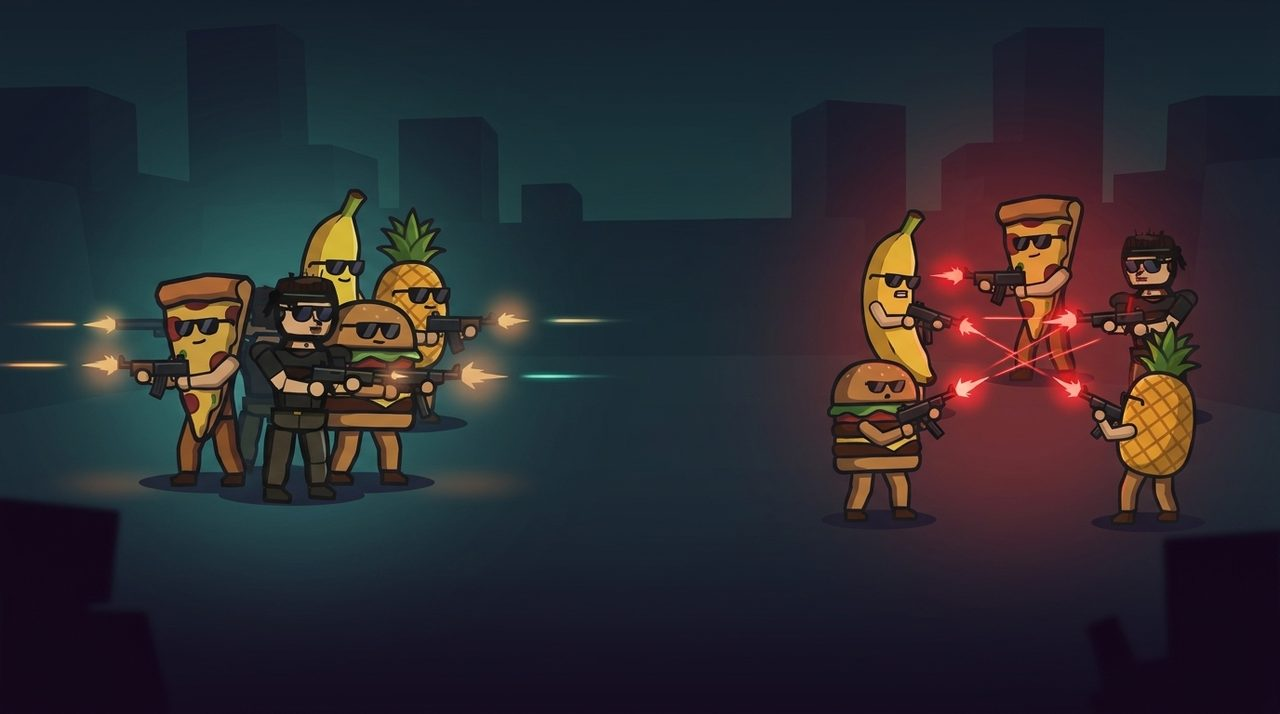
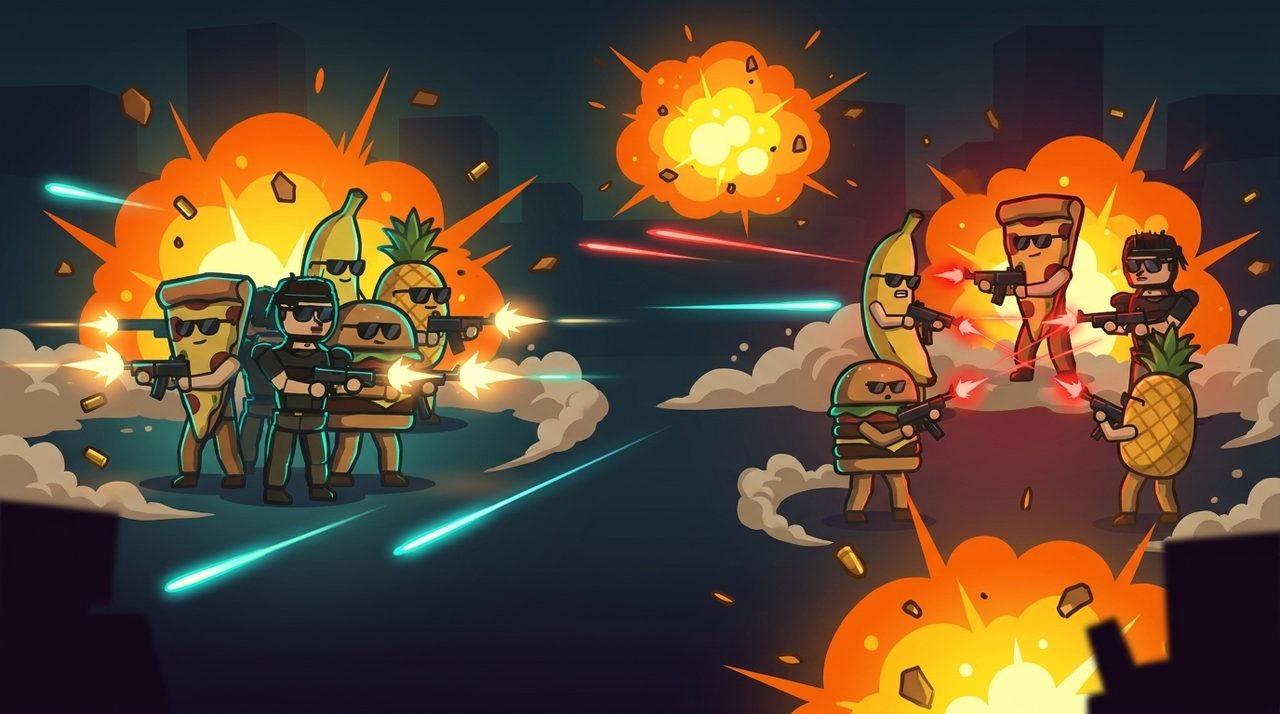
v1.685: större/skarpa meny-knappar + SPELA/CO-OP-position + explosiv co-op-bg
- BLUR-FIX: fitMenu använder nu 'zoom' istället för transform:scale → text
  re-renderas skarpt vid nedskalning (transform:scale gav suddig text).
- De 7 grid-knapparna större: font 12→15px, mer padding, bredare flex-basis.
- Logo nedskalad (min 60vw/380px) för att frigöra plats åt större knappar.
- SPELA/CO-OP: tydlig luft ovanför (margin-top 42px) + tajt ner mot griden =
  centrerade i gapet, strax över de andra knapparna.
- Co-op-skärmens bakgrund: AI-edit som la till explosioner, mynningseld, tracers,
  rök, gnistor (mer levande) UTAN att ändra karaktärer/upplägg.

SW-cache + version bumpade. Verifierat via smoke-test (meny + co-op).

diff --git a/index.html b/index.html
@@ -403,7 +403,7 @@
     <a href="#" id="social-twitter" class="wp-social-btn" target="_blank" rel="noopener" aria-label="X / Twitter">𝕏</a>
     <a href="#" id="social-youtube" class="wp-social-btn" target="_blank" rel="noopener" aria-label="YouTube">▶</a>
   </div>
-  <p id="version-tag" style="position:absolute;bottom:max(8px, env(safe-area-inset-bottom, 8px));right:max(12px, env(safe-area-inset-right, 12px));font-size:11px;opacity:0.7;color:#5aff5a;font-weight:900;">v1.684 ⚡</p>
+  <p id="version-tag" style="position:absolute;bottom:max(8px, env(safe-area-inset-bottom, 8px));right:max(12px, env(safe-area-inset-right, 12px));font-size:11px;opacity:0.7;color:#5aff5a;font-weight:900;">v1.685 ⚡</p>
 </div>
 
 <div id="stats-screen" class="overlay hidden">
@@ -748,14 +748,16 @@
       var content = document.getElementById('menu-content');
       if (!screen || !content) return;
       if (screen.classList.contains('hidden') || screen.offsetParent === null) return;
-      content.style.transform = 'none';
+      // v1.685: använd 'zoom' istället för transform:scale — zoom re-renderar texten
+      // SKARPT vid nedskalning (transform:scale rasterar+skalar = suddig text).
+      content.style.zoom = '1';
       var cs = getComputedStyle(screen);
       var availH = screen.clientHeight - (parseFloat(cs.paddingTop)||0) - (parseFloat(cs.paddingBottom)||0);
       var availW = screen.clientWidth  - (parseFloat(cs.paddingLeft)||0) - (parseFloat(cs.paddingRight)||0);
       var needH = content.offsetHeight, needW = content.offsetWidth;
       if (needH <= 0 || needW <= 0) return;
       var scale = Math.min(1, availH / needH, availW / needW);
-      content.style.transform = (scale < 0.999) ? ('scale(' + scale.toFixed(4) + ')') : 'none';
+      content.style.zoom = (scale < 0.999) ? scale.toFixed(4) : '1';
     }
     window.fitMenu = fitMenu;
     window.addEventListener('resize', fitMenu);

diff --git a/style.css b/style.css
@@ -2155,9 +2155,12 @@ body.heist-mode #hud-toast-stack {
   flex-wrap: wrap;
 }
 #menu-screen .menu-row .medium-btn {
-  flex: 1 1 160px;
+  flex: 1 1 200px;
   min-width: 0;
   margin: 0;
+  font-size: 15px;          /* v1.685: större knappar — texten var liten/suddig */
+  padding: 15px 18px;
+  letter-spacing: 1.5px;
 }
 /* Knapparna får liten lyft + soft glow på hover */
 #menu-screen .medium-btn,
@@ -2216,7 +2219,7 @@ body.heist-mode #hud-toast-stack {
    ============================================================ */
 /* v1.676: AI-genererad logo-bild (ersätter CSS-text-wordmarken) */
 .wp-logo-img {
-  width: min(74vw, 470px);
+  width: min(60vw, 380px);
   height: auto;
   margin: 0 0 2px;
   filter: drop-shadow(0 6px 16px rgba(0,0,0,0.7));
@@ -2236,8 +2239,8 @@ body.heist-mode #hud-toast-stack {
 #btn-start.btn-play-hero { min-width: 280px; font-size: 22px; }
 /* v1.681: SPELA+CO-OP centrerade i gapet under logon, strax ovanför grid-knapparna
    (luft ovanför paret, tajt ner mot griden). */
-#menu-content > #btn-start.btn-play-hero { margin-top: 30px; }
-#menu-content > #btn-coop.btn-coop-hero { margin-bottom: 16px !important; }
+#menu-content > #btn-start.btn-play-hero { margin-top: 42px; }
+#menu-content > #btn-coop.btn-coop-hero { margin-bottom: 8px !important; }
 /* Hjälp/Tutorial = egen full-bredds-rad */
 .menu-btn-wide { flex: 1 1 100% !important; max-width: 100%; }
 /* Sociala ikoner nere till vänster */

diff --git a/server/server.js b/server/server.js
@@ -7,7 +7,7 @@ const { createSim, startSim, stopSim, applyPlayerInput, applyShoot, applyLoadSta
 const PORT = process.env.PORT || 8080;
 
 // Healthcheck + error-reporting endpoint
-const SERVER_VERSION = 'v204-warparty-startbg-noredknight-v1.684';
+const SERVER_VERSION = 'v205-warparty-btns-coopfx-v1.685';
 const SERVER_BUILD_AT = new Date().toISOString();
 const errorLog = []; // ring-buffer av senaste 100 client-side errors
 const ERROR_LOG_MAX = 100;

diff --git a/sw.js b/sw.js
@@ -1,5 +1,5 @@
 // Service Worker — network-first för kod, cache-first för assets
-const CACHE = 'penetrator-v684-warparty-startbg5';
+const CACHE = 'penetrator-v685-warparty-btns-coopfx';
 const ASSETS = [
   './',
   './index.html',
